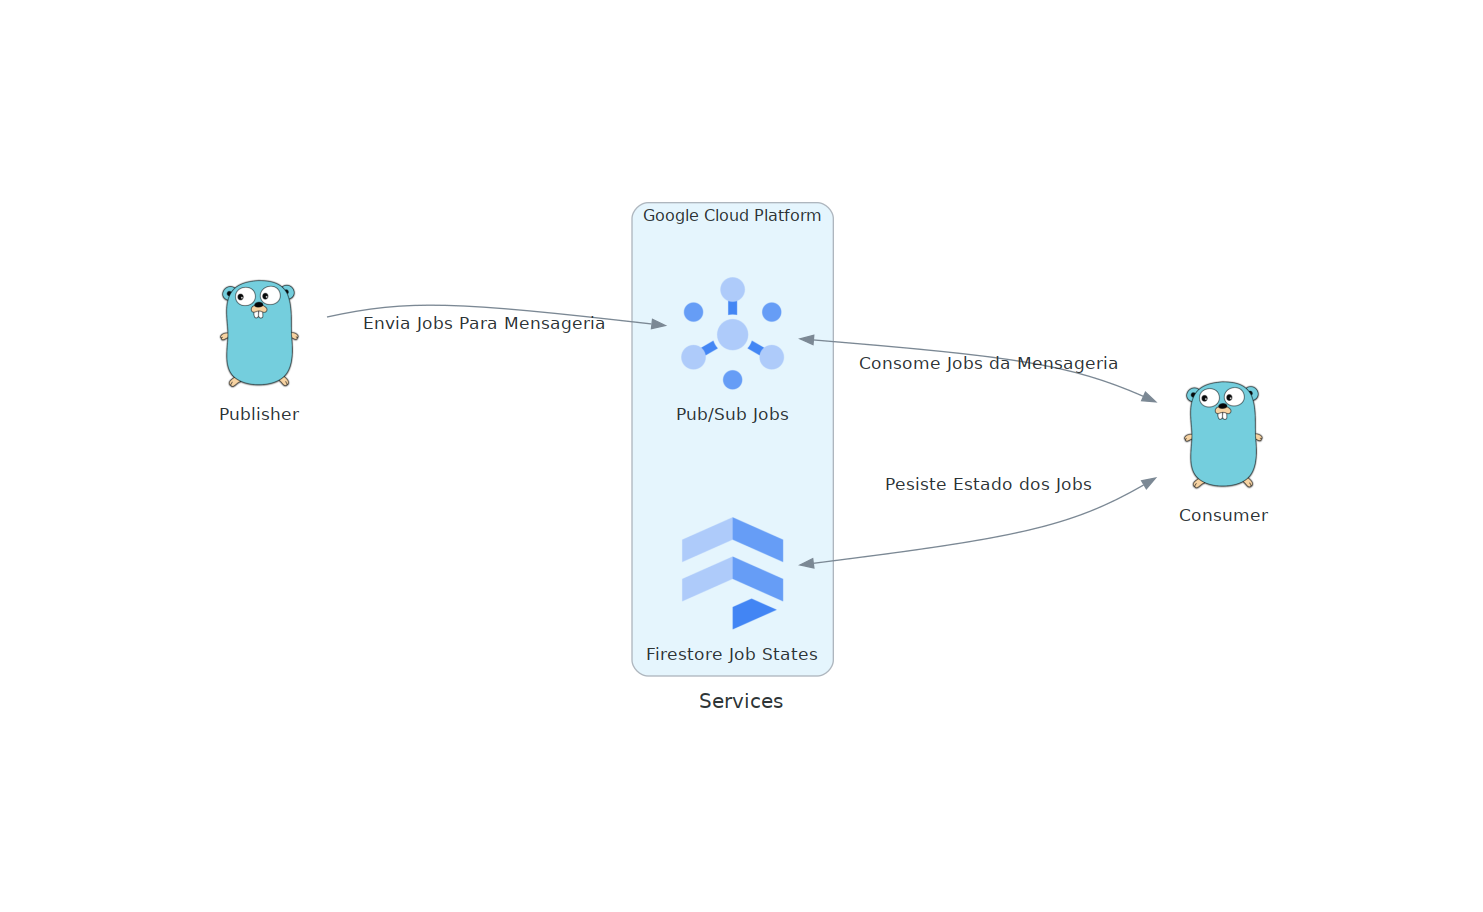
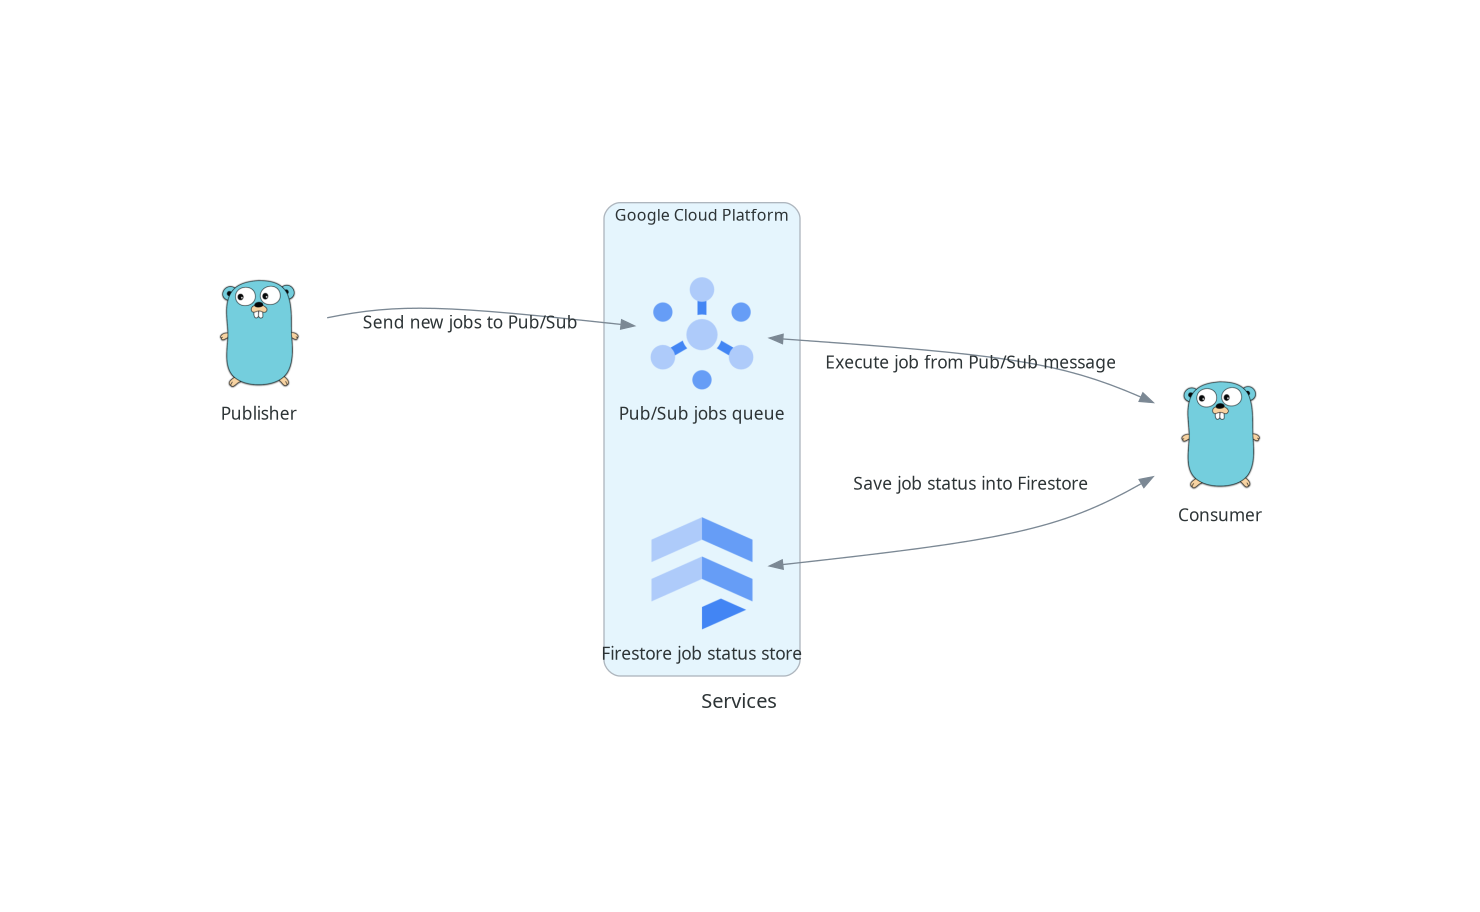
feat: translate diagram to english

diff --git a/scripts/diagram.py b/scripts/diagram.py
@@ -8,15 +8,15 @@ with d.Diagram(name="Services", filename="services", curvestyle="curved"):
     publisher = pl.Go(label="Publisher", nodeid="publisher")
 
     with d.Cluster(label="Google Cloud Platform"):
-        pubsub = ga.PubSub(label="Pub/Sub Jobs")
-        firestore = gd.Firestore(label="Firestore Job States")
+        pubsub = ga.PubSub(label="Pub/Sub jobs queue")
+        firestore = gd.Firestore(label="Firestore job status store")
 
     consumer = pl.Go(label="Consumer", nodeid="consumer")
 
     publisher \
-        >> d.Edge(forward=True, label='Envia Jobs Para Mensageria') \
+        >> d.Edge(forward=True, label='Send new jobs to Pub/Sub') \
         >> pubsub \
-        >> d.Edge(reverse=True, label='Consome Jobs da Mensageria') \
+        >> d.Edge(reverse=True, label='Execute job from Pub/Sub message') \
         >> consumer \
-        >> d.Edge(forward=True, reverse=True, label='Pesiste Estado dos Jobs') \
+        >> d.Edge(forward=False, reverse=True, label='Save job status into Firestore') \
         >> firestore
